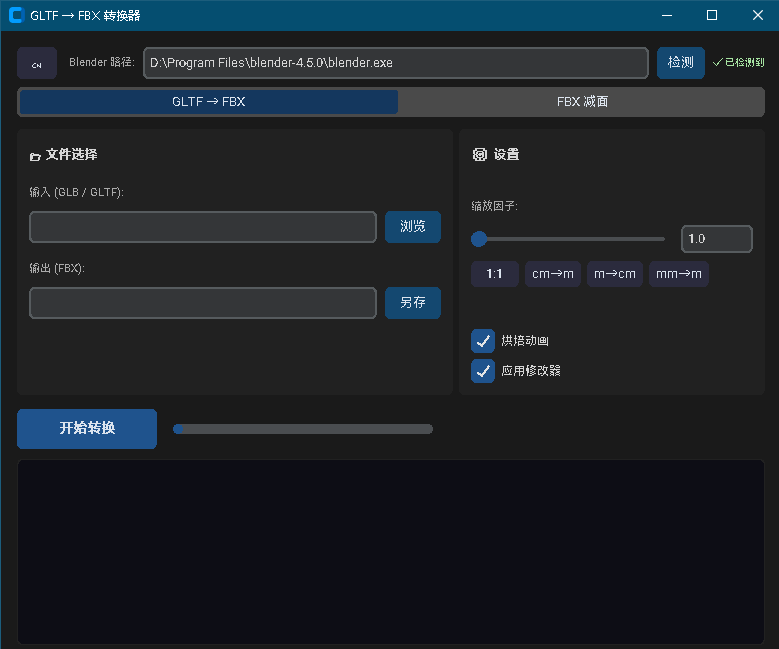
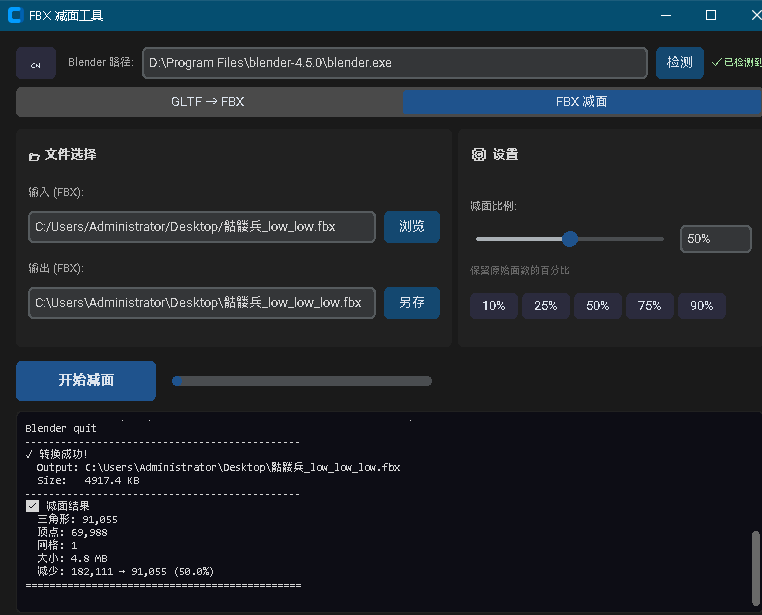
feat: FBX减面显示模型信息、预测输出和实际结果
- 拖入/选择FBX后显示基础信息(三角形、顶点、网格数、文件大小)
- 减面比例调整时实时更新预测输出信息
- 减面完成后显示实际结果(面数、顶点、大小、减少比例)
- 顶点统计按唯一位置去重，标签改为Triangles/Vertices与Unity一致
- 优化DnD: 递归注册所有子控件，格式不匹配时提示
- Blender路径与语言切换按钮同行，删除旧标题

diff --git a/gui.py b/gui.py
@@ -64,6 +64,19 @@ T = {
     "err_input_dec": {"cn":"请选择 FBX 输入文件", "en":"Please select an FBX input file"},
     "err_mismatch":{"cn":"文件格式不匹配！\n\n拖入的文件后缀: {}\n需要的后缀: {}", "en":"File format mismatch!\n\nDropped: {}\nRequired: {}"},
     "log_ratio":  {"cn":"  减面: {}%",  "en":"  Ratio:  {}%"},
+    "info_title": {"cn":"📋 模型信息",  "en":"📋 Model Info"},
+    "info_faces": {"cn":"三角形: {:,}",  "en":"Triangles: {:,}"},
+    "info_verts": {"cn":"顶点: {:,}",  "en":"Vertices: {:,}"},
+    "info_meshes":{"cn":"网格: {}",    "en":"Meshes: {}"},
+    "info_size":  {"cn":"大小: {:.1f} MB","en":"Size: {:.1f} MB"},
+    "info_pred":  {"cn":"🔮 预测输出", "en":"🔮 Predicted Output"},
+    "info_pred_faces":{"cn":"三角形: {:,} ({:.0f}%)","en":"Triangles: {:,} ({:.0f}%)"},
+    "info_pred_verts":{"cn":"顶点: {:,}","en":"Vertices: {:,}"},
+    "info_pred_size":{"cn":"大小: ~{:.1f} MB","en":"Size: ~{:.1f} MB"},
+    "info_loading":{"cn":"⏳ 读取模型信息...","en":"⏳ Reading model info..."},
+    "info_failed":{"cn":"❌ 读取信息失败","en":"❌ Failed to read info"},
+    "info_result":{"cn":"✅ 减面结果","en":"✅ Decimation Result"},
+    "info_reduction":{"cn":"减少: {:,} → {:,} ({:.1f}%)","en":"Reduced: {:,} → {:,} ({:.1f}%)"},
 }
 L = list(T.keys())
 
@@ -98,6 +111,7 @@ class App(ctk.CTk):
         self.blender_path = find_blender() or ""
         self.input_path = ""; self.output_path = ""
         self.mode = "convert"
+        self._fbx_info = None  # (faces, verts, meshes, size_bytes)
         self._build_ui()
         self._update_blender_status()
         self._setup_dnd()
@@ -288,11 +302,80 @@ class App(ctk.CTk):
     def _on_scale(self, val): self.scale_var.set(f"{float(val):.2f}")
     def _set_scale(self, val): self.scale_slider.set(val); self.scale_var.set(f"{val:.2f}")
 
-    def _on_decimate(self, val): self.dec_var.set(f"{int(val)}%")
-    def _set_decimate(self, val): self.dec_slider.set(val); self.dec_var.set(f"{val}%")
+    def _on_decimate(self, val): self.dec_var.set(f"{int(val)}%"); self._update_prediction()
+    def _set_decimate(self, val): self.dec_slider.set(val); self.dec_var.set(f"{val}%"); self._update_prediction()
     def _get_decimate_ratio(self):
         try: return float(self.dec_var.get().replace("%","").strip()) / 100.0
         except: return 0.5
+
+    def _fetch_fbx_info(self, path):
+        """Run Blender in background to read FBX mesh stats."""
+        bl = self.blender_var.get().strip()
+        if not bl or not os.path.isfile(bl): return
+        sp = Path(__file__).parent / "gltf2fbx.py"
+        if not sp.exists(): sp = Path.cwd() / "gltf2fbx.py"
+        self._fbx_info = None
+        self._clear_log()
+        self._log(self.tr("info_loading"))
+        def _worker():
+            cmd = [bl, "--background", "--python", str(sp.resolve()),
+                   "--", "--mode", "info", "--input", path]
+            try:
+                proc = subprocess.run(cmd, capture_output=True, text=True,
+                    encoding="utf-8", errors="replace",
+                    creationflags=subprocess.CREATE_NO_WINDOW if sys.platform=="win32" else 0)
+                info = {}
+                for line in proc.stdout.splitlines():
+                    if line.startswith("INFO:"):
+                        parts = line[5:].split(":", 1)
+                        if len(parts) == 2: info[parts[0]] = parts[1]
+                if "INFO:OK" in proc.stdout:
+                    info = {}
+                    for line in proc.stdout.splitlines():
+                        if line.startswith("INFO:") and line != "INFO:OK":
+                            parts = line[5:].split(":", 1)
+                            if len(parts) == 2: info[parts[0]] = parts[1]
+                    faces = int(info.get("FACES", 0))
+                    verts = int(info.get("VERTS", 0))
+                    meshes = int(info.get("MESHES", 0))
+                    size = int(info.get("SIZE", 0))
+                    self._fbx_info = (faces, verts, meshes, size)
+                    self.after(0, lambda: self._display_fbx_info())
+                else:
+                    self.after(0, lambda: [self._clear_log(), self._log(self.tr("info_failed"))])
+            except Exception:
+                self.after(0, lambda: [self._clear_log(), self._log(self.tr("info_failed"))])
+        threading.Thread(target=_worker, daemon=True).start()
+
+    def _display_fbx_info(self):
+        if not self._fbx_info: return
+        t = self.tr; faces, verts, meshes, size = self._fbx_info
+        size_mb = size / (1024 * 1024)
+        self._clear_log()
+        self._log("="*46)
+        self._log(t("info_title"))
+        self._log("="*46)
+        self._log(f"  {t('info_faces', faces)}")
+        self._log(f"  {t('info_verts', verts)}")
+        self._log(f"  {t('info_meshes', meshes)}")
+        self._log(f"  {t('info_size', size_mb)}")
+        self._log("-"*46)
+        self._update_prediction()
+
+    def _update_prediction(self):
+        if not self._fbx_info: return
+        t = self.tr; faces, verts, meshes, size = self._fbx_info
+        ratio = self._get_decimate_ratio()
+        pred_faces = int(faces * ratio)
+        pred_verts = int(verts * ratio)
+        pred_size = size * ratio
+        pred_mb = pred_size / (1024 * 1024)
+        self._log("-"*46)
+        self._log(t("info_pred"))
+        self._log(f"  {t('info_pred_faces', pred_faces, ratio*100)}")
+        self._log(f"  {t('info_pred_verts', pred_verts)}")
+        self._log(f"  {t('info_pred_size', pred_mb)}")
+        self._log("="*46)
 
     def _on_mode_change(self, value):
         self.mode = "decimate" if value == self.tr("mode_dec") else "convert"
@@ -329,6 +412,8 @@ class App(ctk.CTk):
             self.status_var.set(t("ready_dec"))
         self.input_var.set(""); self.output_var.set("")
         self.input_path = ""; self.output_path = ""
+        self._fbx_info = None
+        self._clear_log()
         self._register_dnd_recursive(self)
 
     def _log(self, text):
@@ -346,6 +431,7 @@ class App(ctk.CTk):
                 stem = Path(p).stem; o = str(Path(p).with_name(stem + "_low.fbx"))
                 self.output_var.set(o); self.output_path = o
                 self.status_var.set(self.tr("input_status", Path(p).name))
+                self._fetch_fbx_info(p)
         else:
             p = filedialog.askopenfilename(title="GLTF/GLB", filetypes=[("GLTF","*.gltf *.glb"),("All","*.*")])
             if p:
@@ -376,6 +462,8 @@ class App(ctk.CTk):
                     o = str(Path(c).with_suffix(".fbx"))
                 self.output_var.set(o); self.output_path = o
                 self.status_var.set(self.tr("input_status", Path(c).name))
+                if self.mode == "decimate":
+                    self._fetch_fbx_info(c)
                 return
         if cand:
             messagebox.showwarning("",
@@ -430,13 +518,19 @@ class App(ctk.CTk):
             cmd.extend(["--scale", self.scale_var.get()])
             if not self.bake_var.get(): cmd.append("--no-bake")
             if not self.modifier_var.get(): cmd.append("--no-modifiers")
+        # collect INFO: lines from decimate output
+        info_lines = []
         try:
             proc = subprocess.Popen(cmd, stdout=subprocess.PIPE, stderr=subprocess.STDOUT,
                                      text=True, encoding="utf-8", errors="replace", bufsize=1,
                                      creationflags=subprocess.CREATE_NO_WINDOW if sys.platform=="win32" else 0)
             for line in proc.stdout:
                 line = line.rstrip()
-                if line: self.after(0, lambda l=line: self._log(l))
+                if line:
+                    if is_dec and line.startswith("INFO:"):
+                        info_lines.append(line)
+                    else:
+                        self.after(0, lambda l=line: self._log(l))
             proc.wait()
             if proc.returncode == 0 and os.path.isfile(self.output_path):
                 kb = os.path.getsize(self.output_path) / 1024
@@ -444,6 +538,31 @@ class App(ctk.CTk):
                 self.after(0, lambda: [self._log("-"*46), self._log(t("log_done")),
                     self._log(f"  Output: {self.output_path}"),
                     self._log(f"  Size:   {kb:.1f} KB"), self.status_var.set(t(done_key))])
+                if is_dec:
+                    # parse actual result info
+                    info = {}
+                    for line in info_lines:
+                        if line.startswith("INFO:") and line != "INFO:OK":
+                            parts = line[5:].split(":", 1)
+                            if len(parts) == 2: info[parts[0]] = parts[1]
+                    if info.get("FACES") and self._fbx_info:
+                        orig_faces = self._fbx_info[0]
+                        act_faces = int(info.get("FACES", 0))
+                        act_verts = int(info.get("VERTS", 0))
+                        act_meshes = int(info.get("MESHES", 0))
+                        act_size = int(info.get("SIZE", 0))
+                        act_mb = act_size / (1024 * 1024)
+                        pct = act_faces / orig_faces * 100 if orig_faces > 0 else 0
+                        self.after(0, lambda: [
+                            self._log("-"*46),
+                            self._log(t("info_result")),
+                            self._log(f"  {t('info_faces', act_faces)}"),
+                            self._log(f"  {t('info_verts', act_verts)}"),
+                            self._log(f"  {t('info_meshes', act_meshes)}"),
+                            self._log(f"  {t('info_size', act_mb)}"),
+                            self._log(f"  {t('info_reduction', orig_faces, act_faces, pct)}"),
+                            self._log("="*46),
+                        ])
                 self.after(0, lambda: messagebox.showinfo("Done", t("done_msg", self.output_path, kb)))
             else:
                 fail_key = "failed_dec" if is_dec else "failed"

diff --git a/gltf2fbx.py b/gltf2fbx.py
@@ -157,6 +157,54 @@ def convert_inside_blender():
 
 
 # ─── Blender 内执行的减面逻辑 ───────────────────────────────────────────
+def info_inside_blender():
+    """在 Blender Python 环境内执行。导入 FBX → 统计网格信息 → 输出结构化数据。"""
+    import bpy
+
+    argv = sys.argv
+    if "--" in argv:
+        argv = argv[argv.index("--") + 1:]
+    else:
+        print("错误: 未找到 -- 分隔符。")
+        sys.exit(1)
+
+    parser = argparse.ArgumentParser(description="FBX Info (Blender backend)")
+    parser.add_argument("--mode", default="info")
+    parser.add_argument("--input", required=True, help="输入 FBX 文件路径")
+    args = parser.parse_args(argv)
+
+    input_path = Path(args.input).resolve()
+    if not input_path.exists():
+        print(f"INFO:ERROR:文件不存在: {input_path}")
+        sys.exit(1)
+
+    bpy.ops.wm.read_factory_settings(use_empty=True)
+    try:
+        bpy.ops.import_scene.fbx(filepath=str(input_path))
+    except Exception as e:
+        print(f"INFO:ERROR:FBX 导入失败: {e}")
+        sys.exit(1)
+
+    total_faces = 0
+    total_verts = 0
+    mesh_count = 0
+    unique_positions = set()
+    for obj in bpy.data.objects:
+        if obj.type == 'MESH':
+            mesh_count += 1
+            total_faces += len(obj.data.polygons)
+            for v in obj.data.vertices:
+                unique_positions.add(v.co[:])
+    total_verts = len(unique_positions)
+
+    file_size = input_path.stat().st_size
+    print(f"INFO:FACES:{total_faces}")
+    print(f"INFO:VERTS:{total_verts}")
+    print(f"INFO:MESHES:{mesh_count}")
+    print(f"INFO:SIZE:{file_size}")
+    print(f"INFO:OK")
+
+
 def decimate_inside_blender():
     """在 Blender Python 环境内执行。导入 FBX → 应用 Decimate 修改器 → 导出 FBX。"""
     import bpy
@@ -261,11 +309,25 @@ def decimate_inside_blender():
         sys.exit(1)
 
     print(f"✓ 减面完成: {output_path}")
-    print(f"  文件大小: {output_path.stat().st_size / 1024:.1f} KB")
 
-    mesh_count = len([o for o in bpy.data.objects if o.type == 'MESH'])
-    armature_count = len([o for o in bpy.data.objects if o.type == 'ARMATURE'])
-    print(f"  网格: {mesh_count}, 骨架: {armature_count}")
+    # 统计减面后信息 (与 info 模式格式一致, 供 GUI 解析)
+    total_faces_after = 0
+    unique_positions = set()
+    mesh_count = 0
+    for obj in bpy.data.objects:
+        if obj.type == 'MESH':
+            mesh_count += 1
+            total_faces_after += len(obj.data.polygons)
+            for v in obj.data.vertices:
+                unique_positions.add(v.co[:])
+    total_verts_after = len(unique_positions)
+    out_size = output_path.stat().st_size
+
+    print(f"INFO:FACES:{total_faces_after}")
+    print(f"INFO:VERTS:{total_verts_after}")
+    print(f"INFO:MESHES:{mesh_count}")
+    print(f"INFO:SIZE:{out_size}")
+    print(f"INFO:OK")
 
 
 # ─── 包装 CLI: 自动查找 Blender ─────────────────────────────────────────
@@ -452,6 +514,8 @@ if __name__ == "__main__":
                 mode = post[idx + 1]
         if mode == "decimate":
             decimate_inside_blender()
+        elif mode == "info":
+            info_inside_blender()
         else:
             convert_inside_blender()
     else: